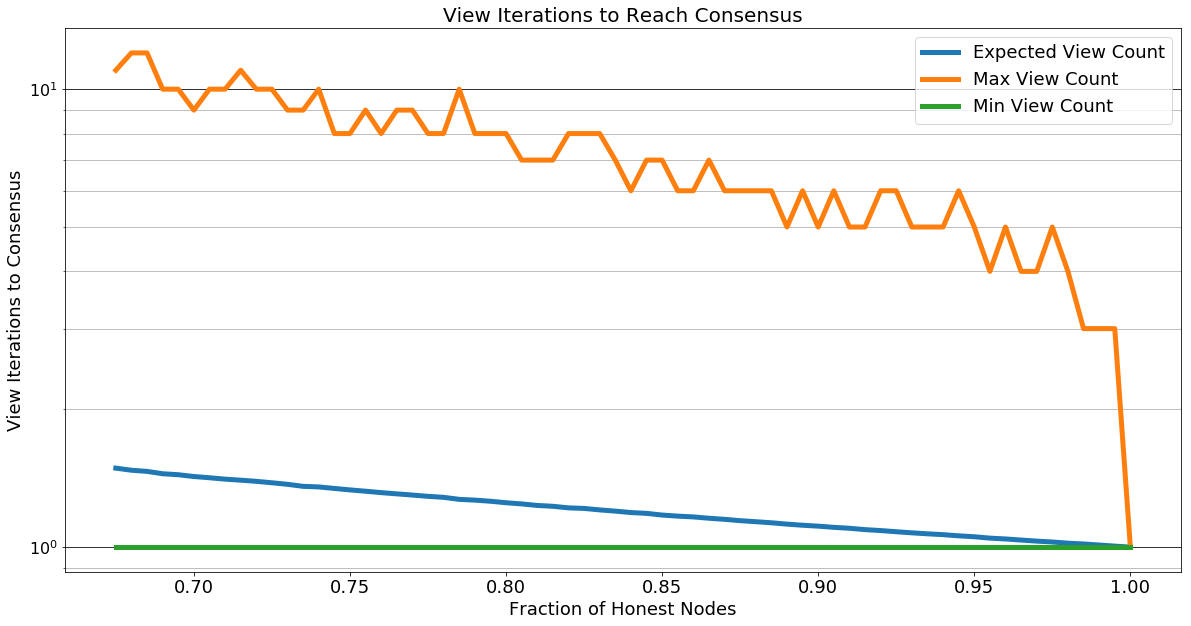
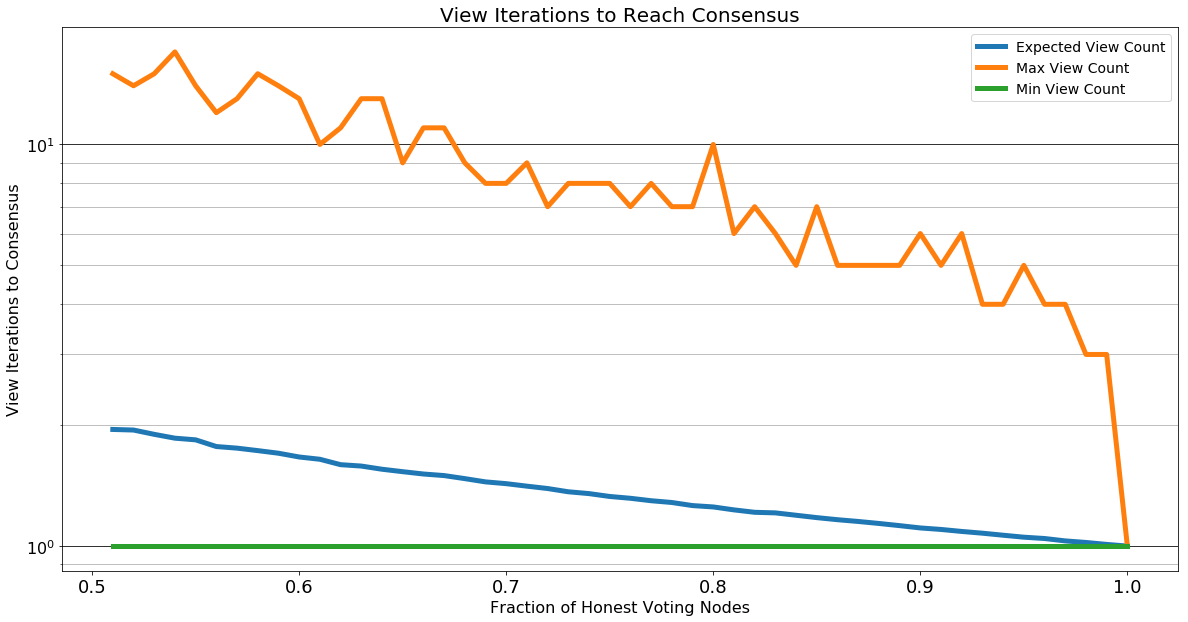
majority acceptance

Changed region(s): [[0.0, 0.0, 0.9966, 1.0]]

diff --git a/en-us/sc/consensus.md b/en-us/sc/consensus.md
@@ -35,12 +35,16 @@ AntShares implements a PoS schema using Delegated Byzantine Fault Tolerance whic
 
 ## 5 - Practical Implementation
 
-The practical implementation of DBFT in AntShares uses an iterative consensus method to guarantee that consensus is reached.  The performance of the algorithm is dependent on the fraction of honest nodes in the system. The chart below depicts the
-expected iterations as a function of the fraction of dishonest nodes.  Note that the plot doesn't extend below 66.66% node honesty. Below this point, there is a 'No-Man's Land' where a consensus is unreachable until reaching 33.33% **Consensus Node** honesty.
-Below this critical point, dishonest nodes (assuming they are aligned in consensus) are able to reach a consensus themselves and become the new point of truth in the system.
+The practical implementation of DBFT in AntShares uses an iterative consensus method to guarantee that consensus is reached.  The performance of the algorithm is dependent on the fraction of honest nodes in the system. The chart below depicts the expected iterations as a function of the fraction of dishonest nodes.  
+
+Notice a primary difference in the plot results compared to the expected theoretical results described in the original Byzantine Generals Problem.  In DBFT, we are able to extend consensus down to only requiring a simple majority (rather than the 66% required in the original BGP algorithm).  Because of the public ledger mechanic of the blockchain, the General(**Speaker**) is unable to send different messages to each Lieutenant(**Congressman**).  This allows the voting nodes to assume that they have all received the same message.  This feature also reduces the expected view iterations at every honesty level due to the reduced requirement on consensus.
+
+Note that the plot doesn't extend to <= 50% node honesty. At 50%, the view count is infinite because a consensus cannot be reached without a majority.  We will call this area "No-Man's Land". Below this critical point, dishonest nodes (assuming they are aligned in consensus) are able to reach a consensus themselves and become the new point of truth in the system.
 
 
 <img src="assets/consensus.iterations.png" width="800">
+**Figure 1:** Monto-Carlo Simulation of the dBFT algorithm depicting the iterations required to reach consensus. {100 Nodes; 20000 Simulated Blocks with random honest node selection}
+
 
 
 ### 5.1 - Roles
@@ -62,7 +66,7 @@ Below this critical point, dishonest nodes (assuming they are aligned in consens
  
 	
   - `f`: The minimum threshold of faulty **Consensus Nodes** within the system. 
-  	- `f = (n - 1) / 3`
+  	- `f = (n - 1) / 2`
   
 	
   - `h` : The current block height during consensus activity.
